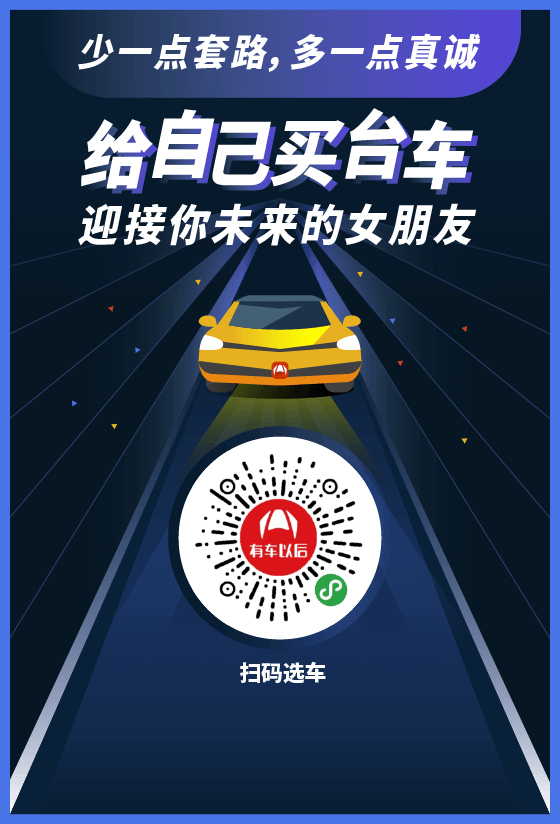
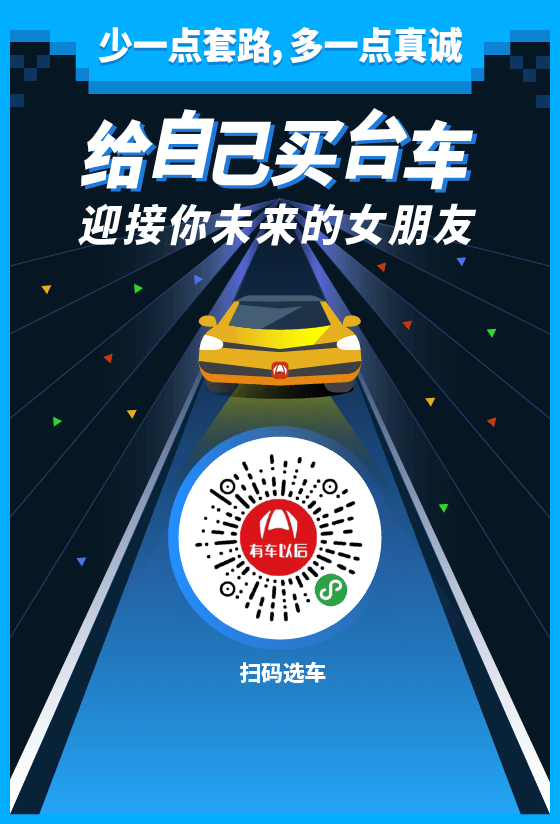
更新图片ui

diff --git a/js/open/page/qr.js b/js/open/page/qr.js
@@ -4,51 +4,51 @@ import Init from './init';
  * 开始页函数
  */
 export default class wechatMP extends Init {
-  constructor() {
-    super();
-    
-    this.qrcode = wx.createImage();
-    this.qrcode.src = 'images/qrcode.png';
-    this.qrBtn = wx.createImage();
-    this.qrBtn.src = 'images/qr-btn.png';
-    this.leftLamp = wx.createImage();
-    this.leftLamp.src = 'images/qr-lamp.png';
+    constructor() {
+        super();
 
-    this.backIcon1 = wx.createImage();
-    this.backIcon1.src = `images/back-icon.png`;
+        this.qrcode = wx.createImage();
+        this.qrcode.src = 'images/qrcode.png';
+        this.qrBtn = wx.createImage();
+        this.qrBtn.src = 'images/qr-btn.png';
+        this.leftLamp = wx.createImage();
+        this.leftLamp.src = 'images/qr-lamp.png';
 
-    this.righttLamp = wx.createImage();
-    this.righttLamp.src = 'images/qr-lamp.png';
-  }
+        this.backIcon1 = wx.createImage();
+        this.backIcon1.src = `images/back-icon.png`;
 
-  relativeSizeH(num) {
-    return this.computedSizeH(270) + this.computedSizeW(num - 270)
-  }
+        this.righttLamp = wx.createImage();
+        this.righttLamp.src = 'images/qr-lamp.png';
+    }
 
-  /**
-   * 更新页面内容
-   * */
-  setTexture(data) {
-    this.clearCvs();
-    // this.updateWxScore(0);
+    relativeSizeH(num) {
+        return this.computedSizeH(270) + this.computedSizeW(num - 270)
+    }
 
-    this.cvs.drawImage(this.qrcode, 0, 0, this.qrcode.width, this.qrcode.height, this.computedSizeW(95), this.computedSizeH(270), this.computedSizeW(560), this.computedSizeW(824));
+    /**
+     * 更新页面内容
+     * */
+    setTexture(data) {
+        this.clearCvs();
+        // this.updateWxScore(0);
 
-
-    this.cvs.drawImage(this.qrBtn, 0, 0, this.qrBtn.width, this.qrBtn.height, this.computedSizeW(240), this.relativeSizeH(976), this.computedSizeW(270), this.computedSizeW(74));
+        this.cvs.drawImage(this.qrcode, 0, 0, this.qrcode.width, this.qrcode.height, this.computedSizeW(95), this.computedSizeH(270), this.computedSizeW(560), this.computedSizeW(824));
 
 
-    this.cvs.drawImage(this.leftLamp, 0, 0, this.leftLamp.width, this.leftLamp.height, this.computedSizeW(0), this.relativeSizeH(110), this.computedSizeW(250), this.computedSizeW(344));
+        this.cvs.drawImage(this.qrBtn, 0, 0, this.qrBtn.width, this.qrBtn.height, this.computedSizeW(238), this.relativeSizeH(976), this.computedSizeW(274), this.computedSizeW(83));
 
-    this.cvs.drawImage(this.backIcon1, 0, 0, this.backIcon1.width, this.backIcon1.height, this.computedSizeW(84), this.relativeSizeH(1150), this.computedSizeW(62), this.computedSizeW(62));
-    
-    this.cvs.save()
 
-    this.cvs.translate(this.winWidth, 0)
-    this.cvs.scale(-1,1)
+        this.cvs.drawImage(this.leftLamp, 0, 0, this.leftLamp.width, this.leftLamp.height, this.computedSizeW(0), this.relativeSizeH(110), this.computedSizeW(250), this.computedSizeW(344));
 
-    this.cvs.drawImage(this.righttLamp, 0, 0, this.righttLamp.width, this.righttLamp.height, this.computedSizeW(0), this.relativeSizeH(110), this.computedSizeW(250), this.computedSizeW(344));
-    this.cvs.restore()
-  }
-  
+        this.cvs.drawImage(this.backIcon1, 0, 0, this.backIcon1.width, this.backIcon1.height, this.computedSizeW(84), this.relativeSizeH(1150), this.computedSizeW(62), this.computedSizeW(62));
+
+        this.cvs.save()
+
+        this.cvs.translate(this.winWidth, 0)
+        this.cvs.scale(-1,1)
+
+        this.cvs.drawImage(this.righttLamp, 0, 0, this.righttLamp.width, this.righttLamp.height, this.computedSizeW(0), this.relativeSizeH(110), this.computedSizeW(250), this.computedSizeW(344));
+        this.cvs.restore()
+    }
+
 }

diff --git a/js/open/page/wechatMP.js b/js/open/page/wechatMP.js
@@ -26,7 +26,7 @@ export default class wechatMP extends Init {
 
     this.cvs.drawImage(this.point, 0, 0, this.point.width, this.point.height, this.computedSizeW(500), this.computedSizeH(85), this.computedSizeW(54), this.computedSizeW(66));
 
-    this.cvs.drawImage(this.guide, 0, 0, this.guide.width, this.guide.height, this.computedSizeW(95), this.relativeSizeH(270), this.computedSizeW(560), this.computedSizeW(824));
+    this.cvs.drawImage(this.guide, 0, 0, this.guide.width, this.guide.height, this.computedSizeW(95), this.relativeSizeH(150), this.computedSizeW(560), this.computedSizeW(955));
 
     this.cvs.drawImage(this.backIcon, 0, 0, this.backIcon.width, this.backIcon.height, this.computedSizeW(84), this.relativeSizeH(1150), this.computedSizeW(62), this.computedSizeW(62));
   }
